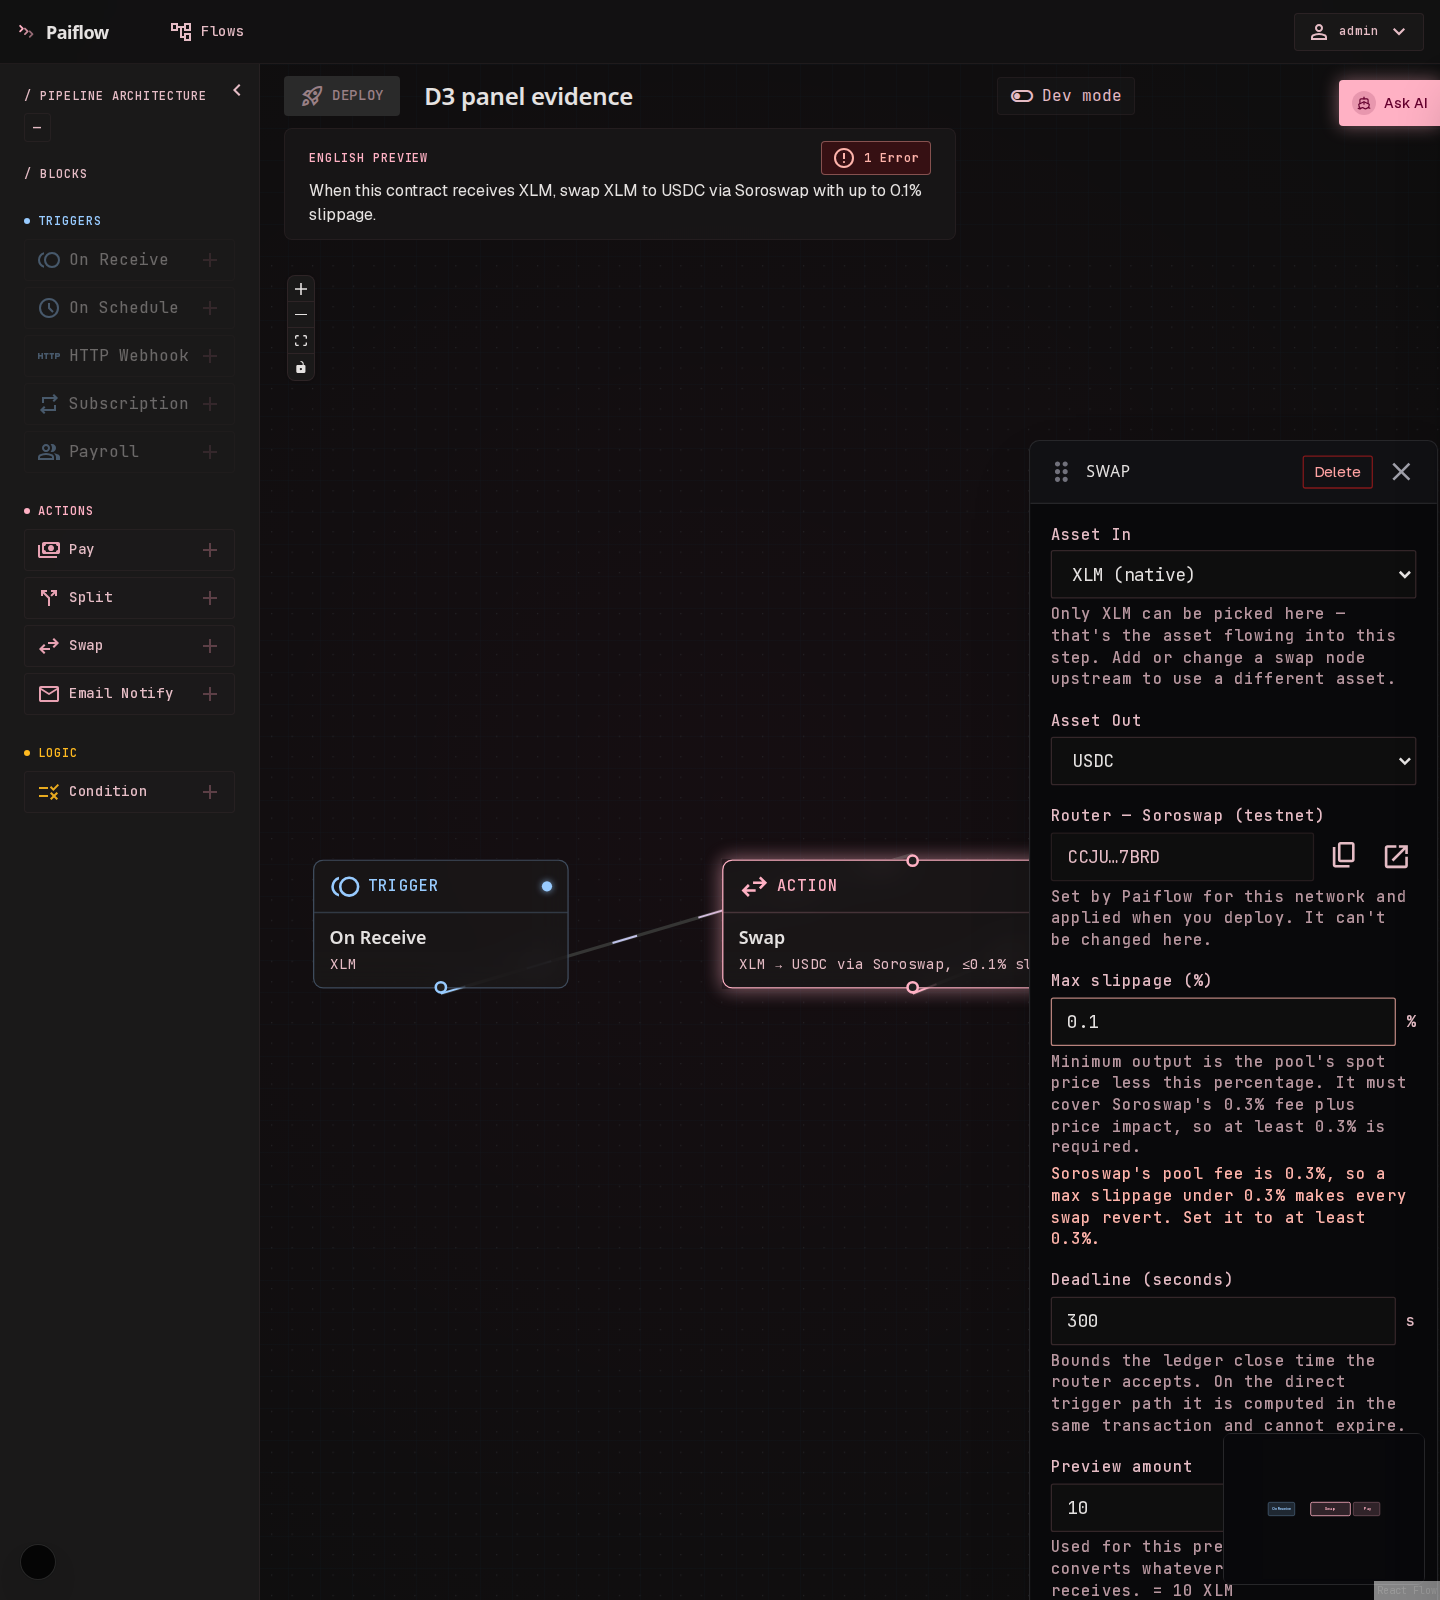
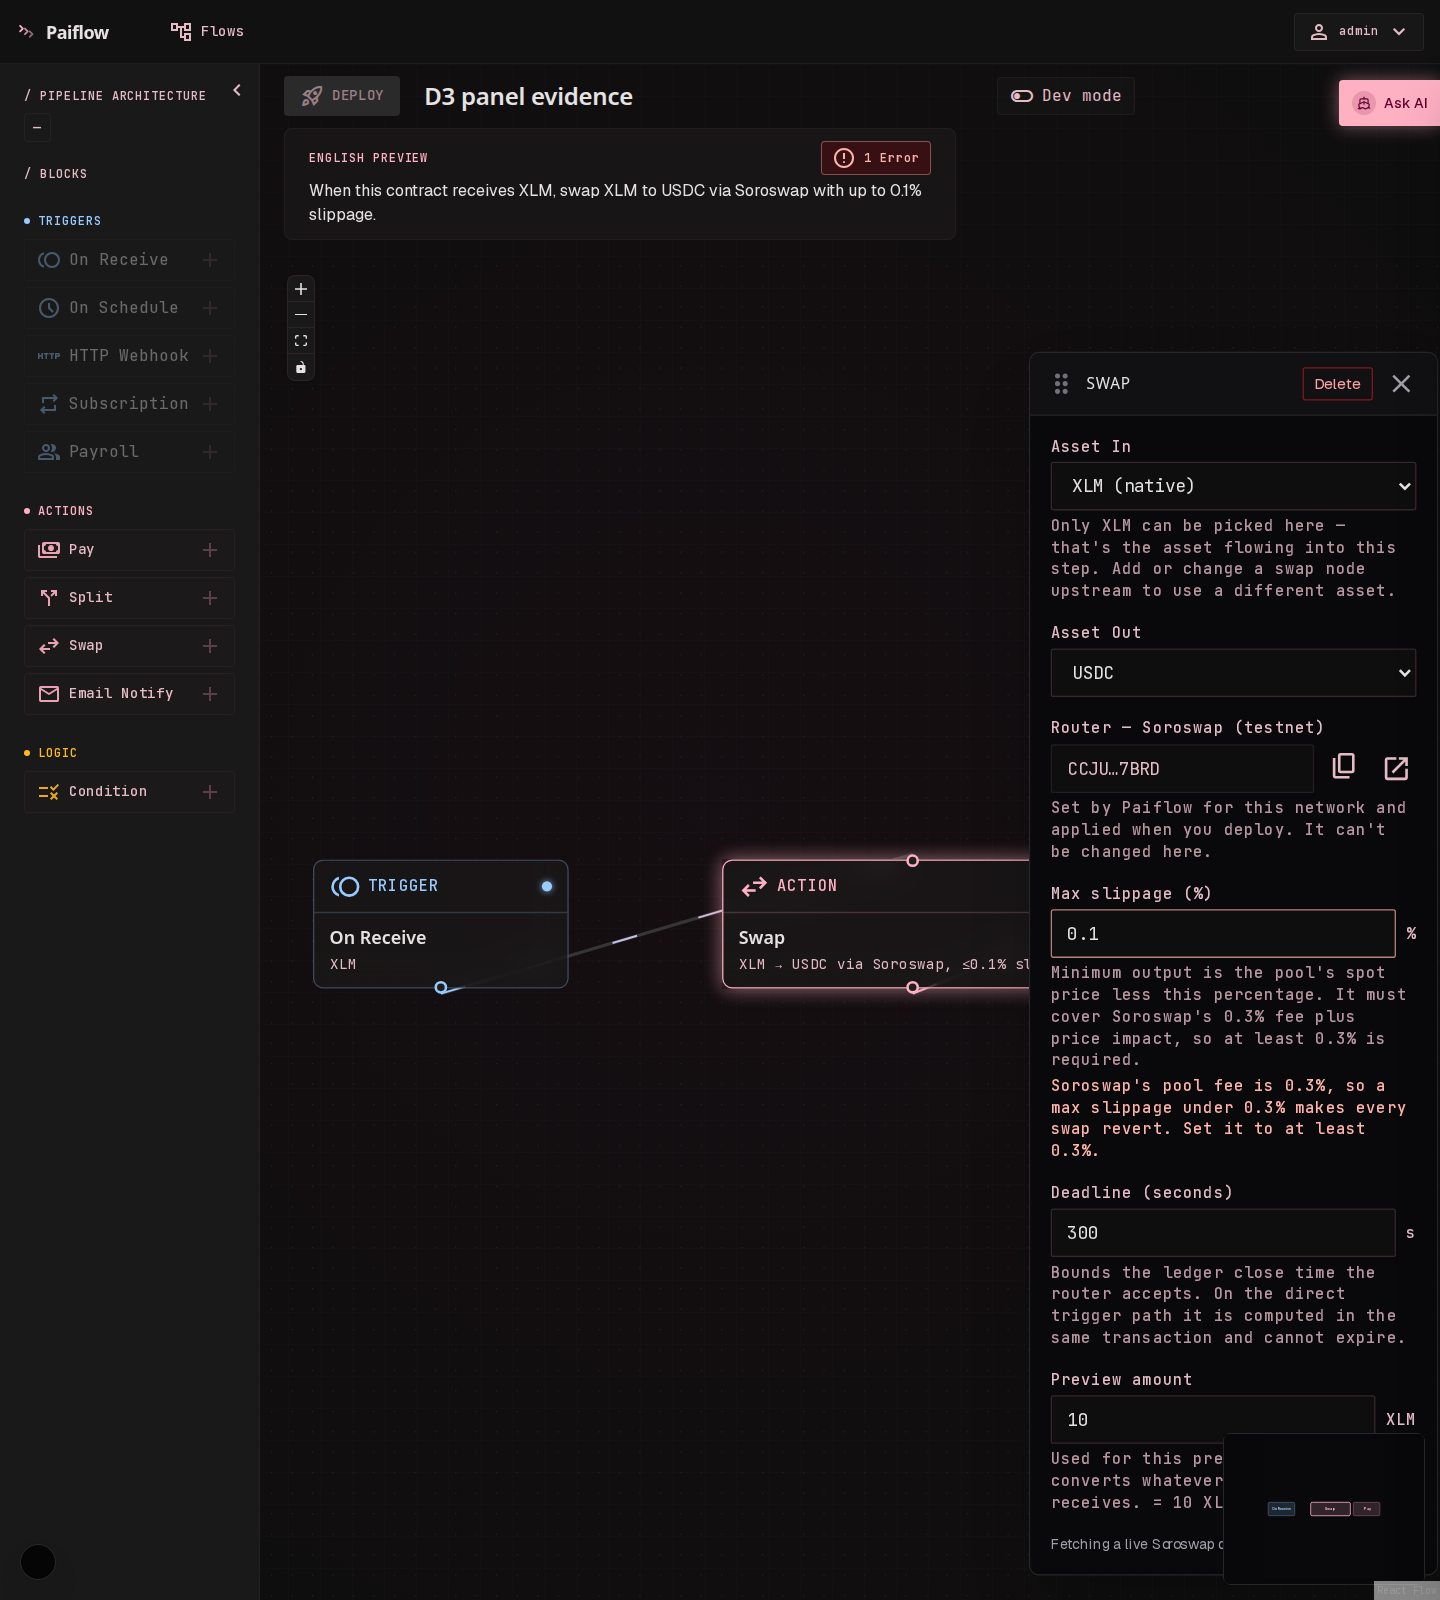
test(builder): assert the error, not the hint, on the shared input (#665)
Review findings on #665, both in "the slippage floor error reaches the
shared input".

F1: the aria-describedby assertion matched /at least 0.3%/, which the
field's permanent hint already ends with ("…so at least 0.3% is
required", swap-panel.tsx), and Field puts the hint's id into
aria-describedby whether or not there is an error. The line passed even
if the error never reached the control — the one thing it was there to
prove. Match /pool fee is 0.3%/ instead, which only the error string
contains, as the sibling unit test does.

F2: the drag exists to bring the whole card into frame, but the only
assertion was that its header moved up by 300px, which a card dragged off
the top edge also satisfies. Assert the panel's box is inside the
viewport instead, and lift it by what its own foot needs rather than a
fixed 420px — the fixed lift in fact left 64px below the fold, so the
committed PNG was already clipped.

Recaptured 15-slippage-error-desktop.png: the panel now sits whole in the
frame, header included. The mobile shot is unchanged.

Changed region(s): [[0.7188, 0.2812, 1.0, 1.0], [0.9062, 0.2188, 0.9375, 0.25], [0.75, 0.2188, 0.7812, 0.25]]

diff --git a/tests/e2e/d3-swap-panel.spec.ts b/tests/e2e/d3-swap-panel.spec.ts
@@ -270,21 +270,33 @@ test.describe("Config panel container (Instawards D3)", () => {
         .map((id) => document.getElementById(id)?.textContent ?? "")
         .join(" "),
     );
-    expect(described).toMatch(/at least 0\.3%/);
+    expect(described).toMatch(/pool fee is 0\.3%/);
 
-    // The floating panel opens with its foot below the 1600px viewport, which
-    // would cut the message off. Its header drags it (asserted in the mouse
-    // suite below), so lift the card until the whole of it is in frame.
+    // The floating panel opens with its foot below the viewport, which would
+    // cut the message off the shot. Its header drags it (asserted in the mouse
+    // suite below), so lift it by exactly what the foot needs — measured, not a
+    // fixed amount a taller panel would outgrow, and no further, because the
+    // builder's own header strip paints over the top of the canvas.
     if (!isMobile) {
+      const vh = page.viewportSize()!.height;
+      const card = (await panel.boundingBox())!;
+      const lift = Math.max(0, Math.min(card.y, card.y + card.height + 24 - vh));
       const header = panel.getByRole("heading", { name: "Swap settings" });
       const h = (await header.boundingBox())!;
       const x = h.x + h.width / 2;
       const y = h.y + h.height / 2;
       await page.mouse.move(x, y);
       await page.mouse.down();
-      await page.mouse.move(x, y - 420, { steps: 8 });
+      await page.mouse.move(x, y - lift, { steps: 8 });
       await page.mouse.up();
-      await expect.poll(async () => (await header.boundingBox())!.y).toBeLessThan(y - 300);
+      // The drag's whole purpose: the card ends up entirely in frame. A panel
+      // too tall for the viewport fails here rather than clipping the PNG.
+      await expect
+        .poll(async () => {
+          const b = (await panel.boundingBox())!;
+          return b.y >= 0 && b.y + b.height <= vh;
+        })
+        .toBe(true);
     }
 
     const message = panel.getByText(/makes every swap revert/);
